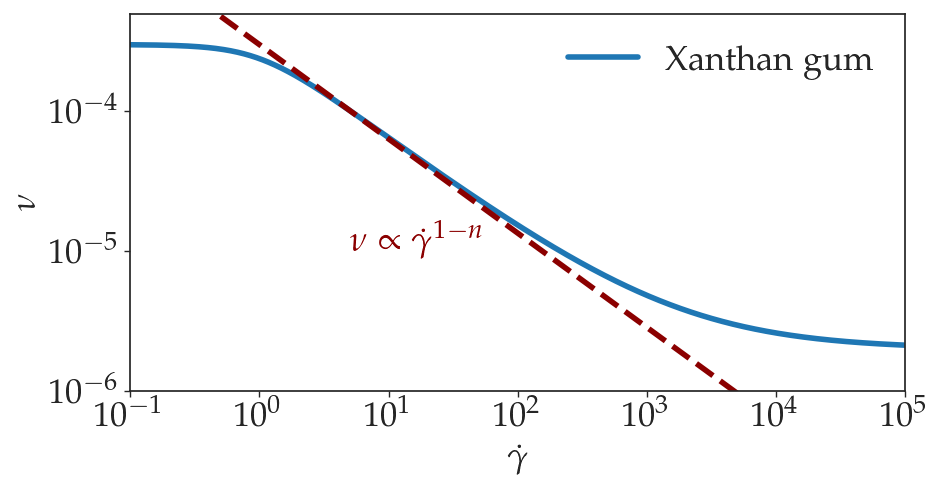
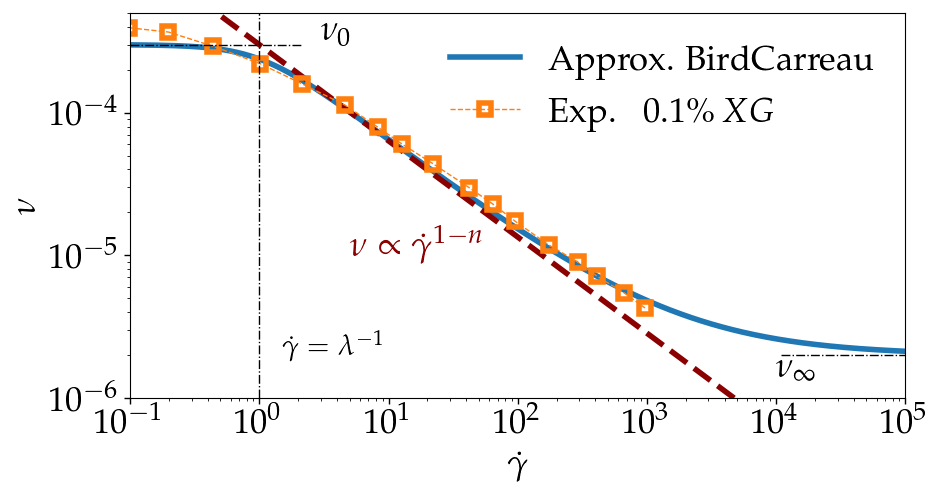
update BC

diff --git a/BirdCarreau_PowerLaw.py b/BirdCarreau_PowerLaw.py
@@ -5,8 +5,19 @@ Created on Thu Oct 18 09:06:42 2018
 @author: hluo
 """
 
+import matplotlib
+matplotlib.use("agg")
 import numpy as np
 import matplotlib.pyplot as plt
+import sys
+sys.path.append('/home/hluo/work/git/thesis/Thesis_hluo_new/reference_database') # for rdb
+import reference_database as rdb
+
+from matplotlib import rc
+#    rc('font',**{'family':'sans-serif','sans-serif':['Helvetica']})
+## for Palatino and other serif fonts use:
+rc('font',**{'family':'serif','serif':['Palatino']})
+rc('text', usetex=True)
 
 gama = np.linspace(0.1,100000,10000000)
 
@@ -42,8 +53,19 @@ font = {'family': 'serif',
         'size': 25,
         }
 ax.text(5, 1e-5, r'$\nu \propto \dot{\gamma}^{1-n}$', fontdict=font)
-ax.plot(gama,nu,linewidth=4, label='Xanthan gum')
+ax.plot(gama,nu,linewidth=4, label='Approx. BirdCarreau')
 ax.plot(gama,nu1,linewidth=4,linestyle='--',color='darkred')
+
+x, y = rdb.Dai_thesis.Fig12p2_XG()
+ax.plot(x,y, linestyle='--', linewidth=1, marker='s', markerfacecolor='none', markersize= 8, markeredgewidth=4, label=r'Exp. \, $0.1\% \, XG$')
+ax.axvline(x=1,linestyle='-.',linewidth=1, color='black')
+ax.axhline(y=3e-4, xmin= 0, xmax= 0.22, linestyle='-.',linewidth=1, color='black')
+ax.axhline(y=2e-6, xmin= 0.84, xmax= 1, linestyle='-.',linewidth=1, color='black')
+
+ax.text(3 , 3e-4, r'$\nu_0$', fontsize=25)#, transform=ax.transAxes)
+ax.text(1e4, 1.3e-6, r'$\nu_{\infty}$', fontsize=25)#, transform=ax.transAxes)
+ax.text(1.5, 2e-6, r'$\dot{\gamma}=\lambda^{-1}$', fontsize=20)#, transform=ax.transAxes)
+
 ax.legend(fancybox=True, bbox_to_anchor=(1, 1), ncol=1,frameon=False, fontsize=25)
 fig.savefig('BirdCarreau.png',dpi=100, bbox_inches='tight')
 
